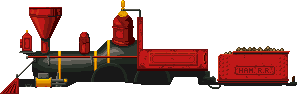
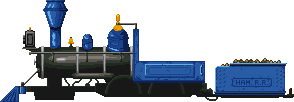
Updates hamster train locomotive.

diff --git a/js/reward-hamster-train.js b/js/reward-hamster-train.js
@@ -178,8 +178,8 @@ let RewardHamsterTrain = (function ($) {
 				let offset = this._$locomotive.offset(),
 					$html;
 
-				offset.left += 80;
-				offset.top += 10;
+				offset.left += 75;
+				offset.top += 5;
 
 				if (
 					offset.left <= 0 ||
@@ -225,12 +225,12 @@ let RewardHamsterTrain = (function ($) {
 		 */
 		_move() {
 			let viewportWidth = $(window).width(),
-				trainWidth = this.$hamsterTrain.width(),
+				trainWidth = this.$hamsterTrain.width() + 100,
 				distance = viewportWidth + trainWidth,
 				duration = distance * 4;
 
 			this.$hamsterTrain.css({
-				left: (viewportWidth + 20) + 'px',
+				left: (viewportWidth + 50) + 'px',
 				transition: 'none'
 			});
 

diff --git a/js/script.js b/js/script.js
@@ -91,8 +91,8 @@ $(function () {
 
 	AnimationEngine.get().start();
 
-	// processor.registerReward('f19f7e5f-f760-4a1b-84b6-3517761a88ad', new RewardRaptorize());
-	// processor.registerReward('086b49ae-a6b9-4d70-b710-fce8a8bd4154', new RewardWeather());
+	processor.registerReward('f19f7e5f-f760-4a1b-84b6-3517761a88ad', new RewardRaptorize());
+	processor.registerReward('086b49ae-a6b9-4d70-b710-fce8a8bd4154', new RewardWeather());
 	//processor.registerReward('06aa7f74-82d6-40b8-8b8a-888b22daf781', new RewardSnowfall());
 	processor.registerRewardFromMeta('.chat-train', new RewardHamsterTrain());
 	processor.registerRewardFromMeta('.chat-cannon', new RewardHamsterCannon());

diff --git a/css/style.css b/css/style.css
@@ -8940,14 +8940,14 @@ body.show-halloween-bats .halloween-bat {
     position: relative;
     margin-left: -14px; }
     .component-hamster-train .hamster-train-locomotive .wheel-image {
-      width: 518px; }
+      width: 496px; }
     .component-hamster-train .hamster-train-locomotive .waggon-passenger {
       bottom: 94px;
-      left: 296px; }
+      left: 274px; }
   .component-hamster-train .locomotive-image {
-    width: 594px;
-    margin-bottom: 4px;
-    margin-left: 2px; }
+    width: 588px;
+    margin-bottom: 12px;
+    margin-left: -14px; }
   .component-hamster-train .waggon-image {
     display: none;
     width: 248px;

diff --git a/sass/components/_hamster-train.scss b/sass/components/_hamster-train.scss
@@ -58,20 +58,20 @@
 		margin-left: -14px;
 
 		.wheel-image {
-			width: 518px;
+			width: 496px;
 		}
 
 		.waggon-passenger {
 			bottom: 94px;
-			left: 296px;
+			left: 274px;
 		}
 	}
 
 	.locomotive-image {
-		width: 594px;
+		width: 588px;
 
-		margin-bottom: 4px;
-		margin-left: 2px;
+		margin-bottom: 12px;
+		margin-left: -14px;
 	}
 
 	.waggon-image {
